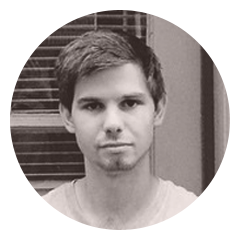
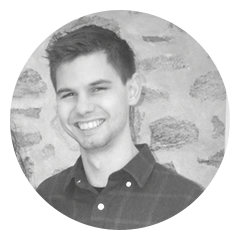
Updated images and story, removed outdated rsvp emailer, minor stye updates

diff --git a/index.html b/index.html
@@ -27,21 +27,24 @@
           <img class="circle" src="assets/ashley.png" alt="Ashley">
           <h2 class="primary large">The Bride</h2>
           <h3 class="secondary space-after">Ashley Ziemer</h3>
-          <p>Lorem ipsum dolor sit amet, consectetur adipisicing elit, sed do eiusmod tempor incididunt ut labore et dolore magna aliqua. Ut enim ad minim veniam, quis nostrud exercitation ullamco laboris nisi ut aliquip ex ea commodo consequat. Duis aute irure dolor in reprehenderit in voluptate velit esse cillum dolore eu fugiat nulla pariatur. Excepteur sint occaecat cupidatat non proident, sunt in culpa qui officia deserunt mollit anim id est laborum.</p>
+          <p>Ashley is a quirky individual who likes to spend her free time drawing, doing crafts, and relaxing with a hot beverage. She works as a Graphic Designer at Stoner Graphix, a sign company located in Hummelstown, PA. She loves her job because it allows her to work on a wide variety of creative projects, and be a part of a close-knit team. Ashley’s favorite qualities about Alex are his quick wit, his intelligence, and his patient and loving nature. She is excited to marry him!</p>
         </div>
         <div class="rightcol">
           <img class="circle" src="assets/alex.png" alt="Alex">
           <h2 class="primary large">The Groom</h2>
           <h3 class="secondary space-after">Alex Getty</h3>
-          <p>Lorem ipsum dolor sit amet, consectetur adipisicing elit, sed do eiusmod tempor incididunt ut labore et dolore magna aliqua. Ut enim ad minim veniam, quis nostrud exercitation ullamco laboris nisi ut aliquip ex ea commodo consequat. Duis aute irure dolor in reprehenderit in voluptate velit esse cillum dolore eu fugiat nulla pariatur. Excepteur sint occaecat cupidatat non proident, sunt in culpa qui officia deserunt mollit anim id est laborum.</p>
+          <p>Alex spends most of his time creating stuff in one form or another and loves discovering new music or getting lost in an Asimov novel. He works as a Designer at Andculture, a design agency in downtown Harrisburg. He likes it there because there’s a new challenge every day and he’s surrounded by super great people. Alex loves Ashley’s sense of humor, her generosity, and the fact that they can create art together. He can’t imagine not spending the rest of his life with this girl.</p>
         </div>
       </div>
       <div class="container">
         <div class="fullcol">
           <img class="circle" src="assets/couple.png" alt="Ashley and Alex">
           <h2 class="primary large space-after">The Couple</h2>
-          <p>Lorem ipsum dolor sit amet, consectetur adipisicing elit, sed do eiusmod tempor incididunt ut labore et dolore magna aliqua. Ut enim ad minim veniam, quis nostrud exercitation ullamco laboris nisi ut aliquip ex ea commodo consequat. Duis aute irure dolor in reprehenderit in voluptate velit esse cillum dolore eu fugiat nulla pariatur. Excepteur sint occaecat cupidatat non proident, sunt in culpa qui officia deserunt mollit anim id est laborum.</p>
-          <p>Lorem ipsum dolor sit amet, consectetur adipisicing elit, sed do eiusmod tempor incididunt ut labore et dolore magna aliqua. Ut enim ad minim veniam, quis nostrud exercitation ullamco laboris nisi ut aliquip ex ea commodo consequat. Duis aute irure dolor in reprehenderit in voluptate velit esse cillum dolore eu fugiat nulla pariatur. Excepteur sint occaecat cupidatat non proident, sunt in culpa qui officia deserunt mollit anim id est laborum.</p>
+          <p>Alex and Ashley's story goes all the way back to their first few years at college. They first met in a sculpture class, during Ashley's freshman year (Alex was a sophomore). Throughout the next few years, they would have a few more classes together and always enjoyed talking in class. It didn't take long for Ashley to take a strong liking to Alex, and she would always look forward to her classes with him. Alex had no idea she felt this way, but still enjoyed her company and their witty banter in class. The semesters would end, and they would go their separate ways.</p>
+          <p>Finally, in the summer of 2012, they were spontaneously reunited at a movie night with some mutual friends. After that night, they talked nonstop. Later in the summer, they both happened to be in Cape May for family vacations, and met up. This was the first time they ever spent time together alone, and now consider it to be their unofficial first date. The summer ended, and Ashley moved back to Messiah (Alex lived with his family, a few minutes away from campus).</p>
+          <p>Within a week, Alex asked Ashley out on a date to hibachi and a movie. After that, the two became inseparable. It was their senior year, and they had many art classes together so they enjoyed spending time working on projects while enjoying each other's company. After college, Ashley moved home for a few months while Alex moved to an apartment in Harrisburg. It didn't take long for Ashley follow suit, and get her her own apartment close by.</p>
+          <p>They enjoyed walking around the city and exploring new restaurants and cafes together. In January of 2015, Alex decided to take a big step forward in the relationship and ask Ashley to marry him. Soon after, a flurry of wedding planning began, in preparation for a can't-miss event that will go down in history! </p>
+          <p>Alex and Ashley can't wait for all their family and friends to join them on the best day of their lives as they become husband and wife.</p>
         </div>
       </div>
     </div>
@@ -76,7 +79,7 @@
     <div class="content">
       <div class="container">
         <div class="fullcol">
-          <a class="rsvp-form" href="http://goo.gl/forms/bfOUI6iOD3">RSVP FORM</a>
+          <a class="rsvp-form" href="http://goo.gl/forms/bfOUI6iOD3">Click Here to RSVP</a>
           <p class="large center">We ask that you RSVP no later than August 27th.</p>
           <p class="large center">If you are unable to RSVP using this form, please call 610.944.0309</p>
         </div>

diff --git a/css/main.css b/css/main.css
@@ -151,10 +151,17 @@ img.circle {
   color: #344f66;
   font-family: 'Playfair Display', serif;
   font-style: italic;
+  font-weight: bold;
   font-size: 24px;
   line-height: 24px;
   text-transform: uppercase;
   margin: 6px 0 10px;
+}
+
+@media (max-width: 600px) {
+  .primary {
+    font-size: 18px;
+  }
 }
 
 p.center {
